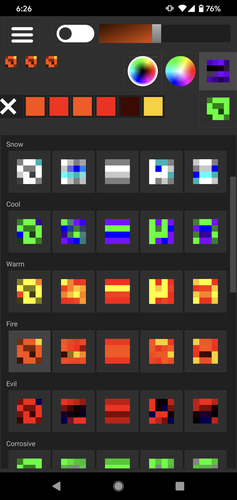
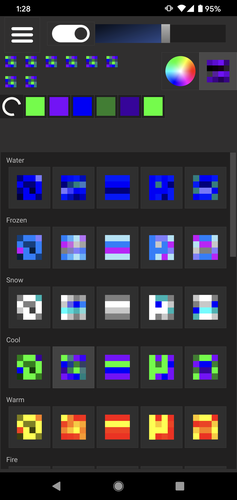
Version 0.17.74: The Docs Update

diff --git a/src/colorpage.cpp b/src/colorpage.cpp
@@ -48,12 +48,18 @@ ColorPage::ColorPage(QWidget* parent) : QWidget(parent), mColor{0, 255, 0} {
 
 void ColorPage::updateColor(const QColor& color) {
     mColor = color;
+    if (mColorPicker->mode() != ESingleColorPickerMode::ambient) {
+        mState.temperature(-1);
+    }
     mState.color(color);
 }
 
 
 void ColorPage::updateBrightness(std::uint32_t brightness) {
     mColor.setHsvF(mColor.hueF(), mColor.saturationF(), brightness / 100.0);
+    if (mColorPicker->mode() != ESingleColorPickerMode::ambient) {
+        mState.temperature(-1);
+    }
     mState.color(mColor);
     mState.isOn(true);
     emit routineUpdate(mState);
@@ -67,6 +73,9 @@ void ColorPage::updateBrightness(std::uint32_t brightness) {
 void ColorPage::colorChanged(const QColor& color) {
     updateColor(color);
     mState.color(color);
+    if (mColorPicker->mode() != ESingleColorPickerMode::ambient) {
+        mState.temperature(-1);
+    }
     mState.isOn(true);
 
     emit routineUpdate(mState);
@@ -78,6 +87,9 @@ void ColorPage::colorChanged(const QColor& color) {
 
 void ColorPage::newRoutineSelected(cor::LightState state) {
     state.color(mColor);
+    if (mColorPicker->mode() != ESingleColorPickerMode::ambient) {
+        mState.temperature(-1);
+    }
     state.isOn(true);
     if (state.routine() != ERoutine::singleSolid) {
         state.speed(125);
@@ -110,8 +122,7 @@ void ColorPage::ambientUpdateReceived(std::uint32_t newAmbientValue, std::uint32
 // ----------------------------
 
 void ColorPage::show(const QColor& color,
-                     uint32_t brightness,
-                     uint32_t lightCount,
+                     std::uint32_t lightCount,
                      EColorPickerType bestType) {
     mColor = color;
     mBestType = bestType;

diff --git a/src/mainviewport.cpp b/src/mainviewport.cpp
@@ -131,8 +131,7 @@ void MainViewport::showMainPage(EPage page, bool skipTransition) {
 
     if (page == EPage::colorPage) {
         mColorPage->show(mData->mainColor(),
-                         uint32_t(mData->brightness()),
-                         uint32_t(mData->lights().size()),
+                         mData->lights().size(),
                          mComm->bestColorPickerType(mData->lights()));
         mColorPage->setVisible(true);
     } else if (page == EPage::moodPage) {
@@ -172,8 +171,7 @@ void MainViewport::hideMainPage(EPage page) {
 void MainViewport::lightCountChanged() {
     if (mPageIndex == EPage::colorPage) {
         mColorPage->show(mData->mainColor(),
-                         uint32_t(mData->brightness()),
-                         uint32_t(mData->lights().size()),
+                         mData->lights().size(),
                          mComm->bestColorPickerType(mData->lights()));
     } else if (mPageIndex == EPage::palettePage) {
         mPalettePage->show(mData->lightCount(),

diff --git a/src/topmenu.cpp b/src/topmenu.cpp
@@ -274,8 +274,7 @@ void TopMenu::lightCountChanged() {
     if (mCurrentPage == EPage::colorPage) {
         adjustSingleColorLayout(false);
         mColorPage->show(mData->mainColor(),
-                         std::uint32_t(mData->brightness()),
-                         std::uint32_t(mData->lights().size()),
+                         mData->lights().size(),
                          mComm->bestColorPickerType(mData->lights()));
     } else if (mCurrentPage == EPage::palettePage) {
         showMultiColorStateWidget(!mData->lights().empty());

diff --git a/src/colorpage.h b/src/colorpage.h
@@ -65,8 +65,7 @@ public:
 
     /// called when the widget is shown
     void show(const QColor& color,
-              uint32_t brightness,
-              uint32_t lightCount,
+              std::uint32_t lightCount,
               EColorPickerType bestType);
 
     /// true if routine widget is open, false otherwise

diff --git a/CHANGELOG.md b/CHANGELOG.md
@@ -682,7 +682,15 @@ ___
 - Fixed miscellaneous bugs.
 
 
-### **v0.17.72**
+### **v0.17.73**
 #### The 2020 Update
 - Updated copyright to 2020.
+
+
+### **v0.17.74**
+#### The Docs Update
+- Fixed bug with ambient color picker.
+- Updated images and docs.
+
+
 
